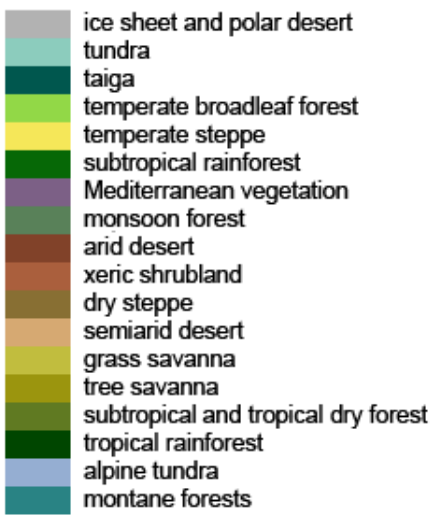
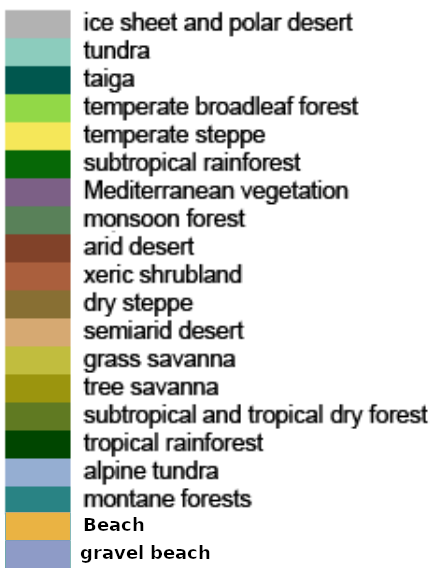
Tweak beaches

diff --git a/index.html b/index.html
@@ -205,7 +205,7 @@
     <hr/>
     <footer>
       <p>&copy; enoua5 2021</p>
-      <p>Key is cropped from <a href="https://commons.wikimedia.org/wiki/File:Vegetation.png">https://commons.wikimedia.org/wiki/File:Vegetation.png</a>, author: Ville Koistinen, <a href="http://creativecommons.org/licenses/by-sa/3.0/">CC BY-SA 3.0</a></p>
+      <p>Key is cropped and added to from <a href="https://commons.wikimedia.org/wiki/File:Vegetation.png">https://commons.wikimedia.org/wiki/File:Vegetation.png</a>, author: Ville Koistinen, <a href="http://creativecommons.org/licenses/by-sa/3.0/">CC BY-SA 3.0</a></p>
       <p>Open Simplex implementation: Stefan Gustavson, public domain</p>
     </footer>
   </body>
